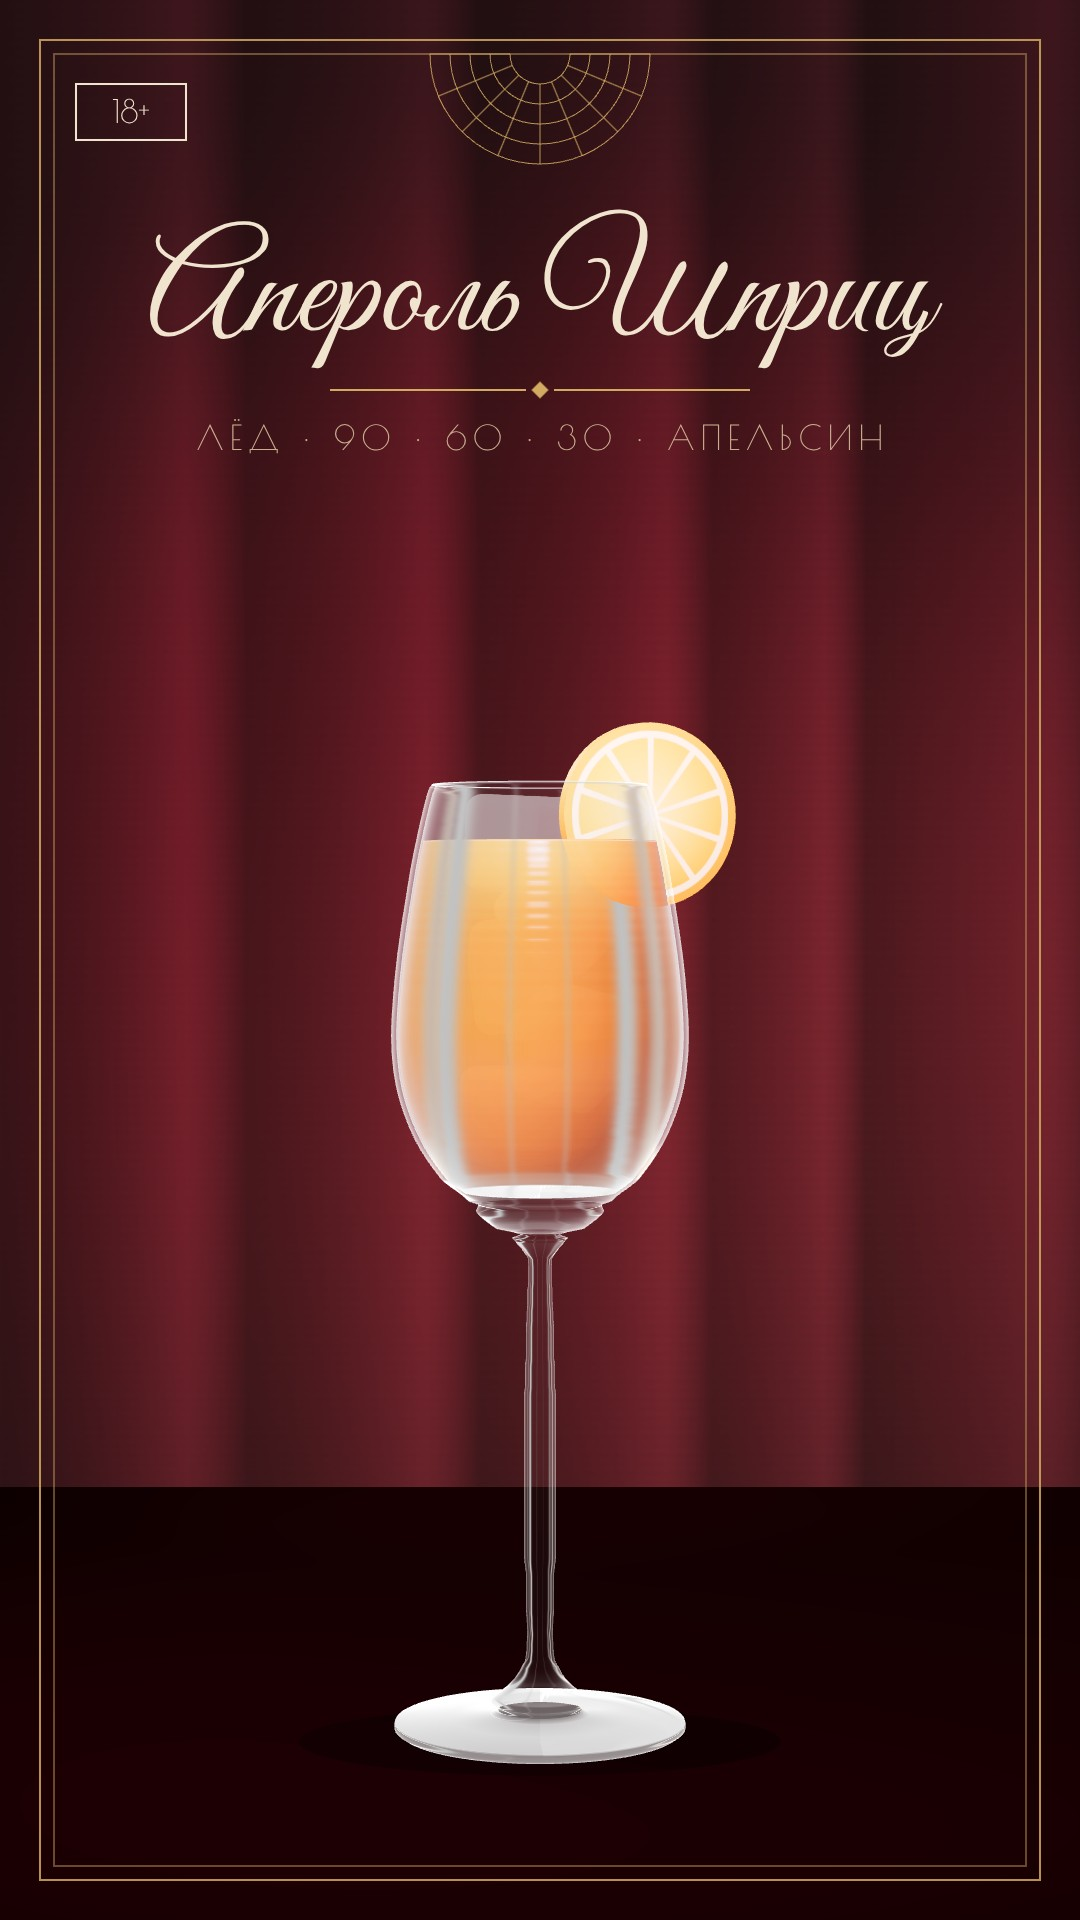
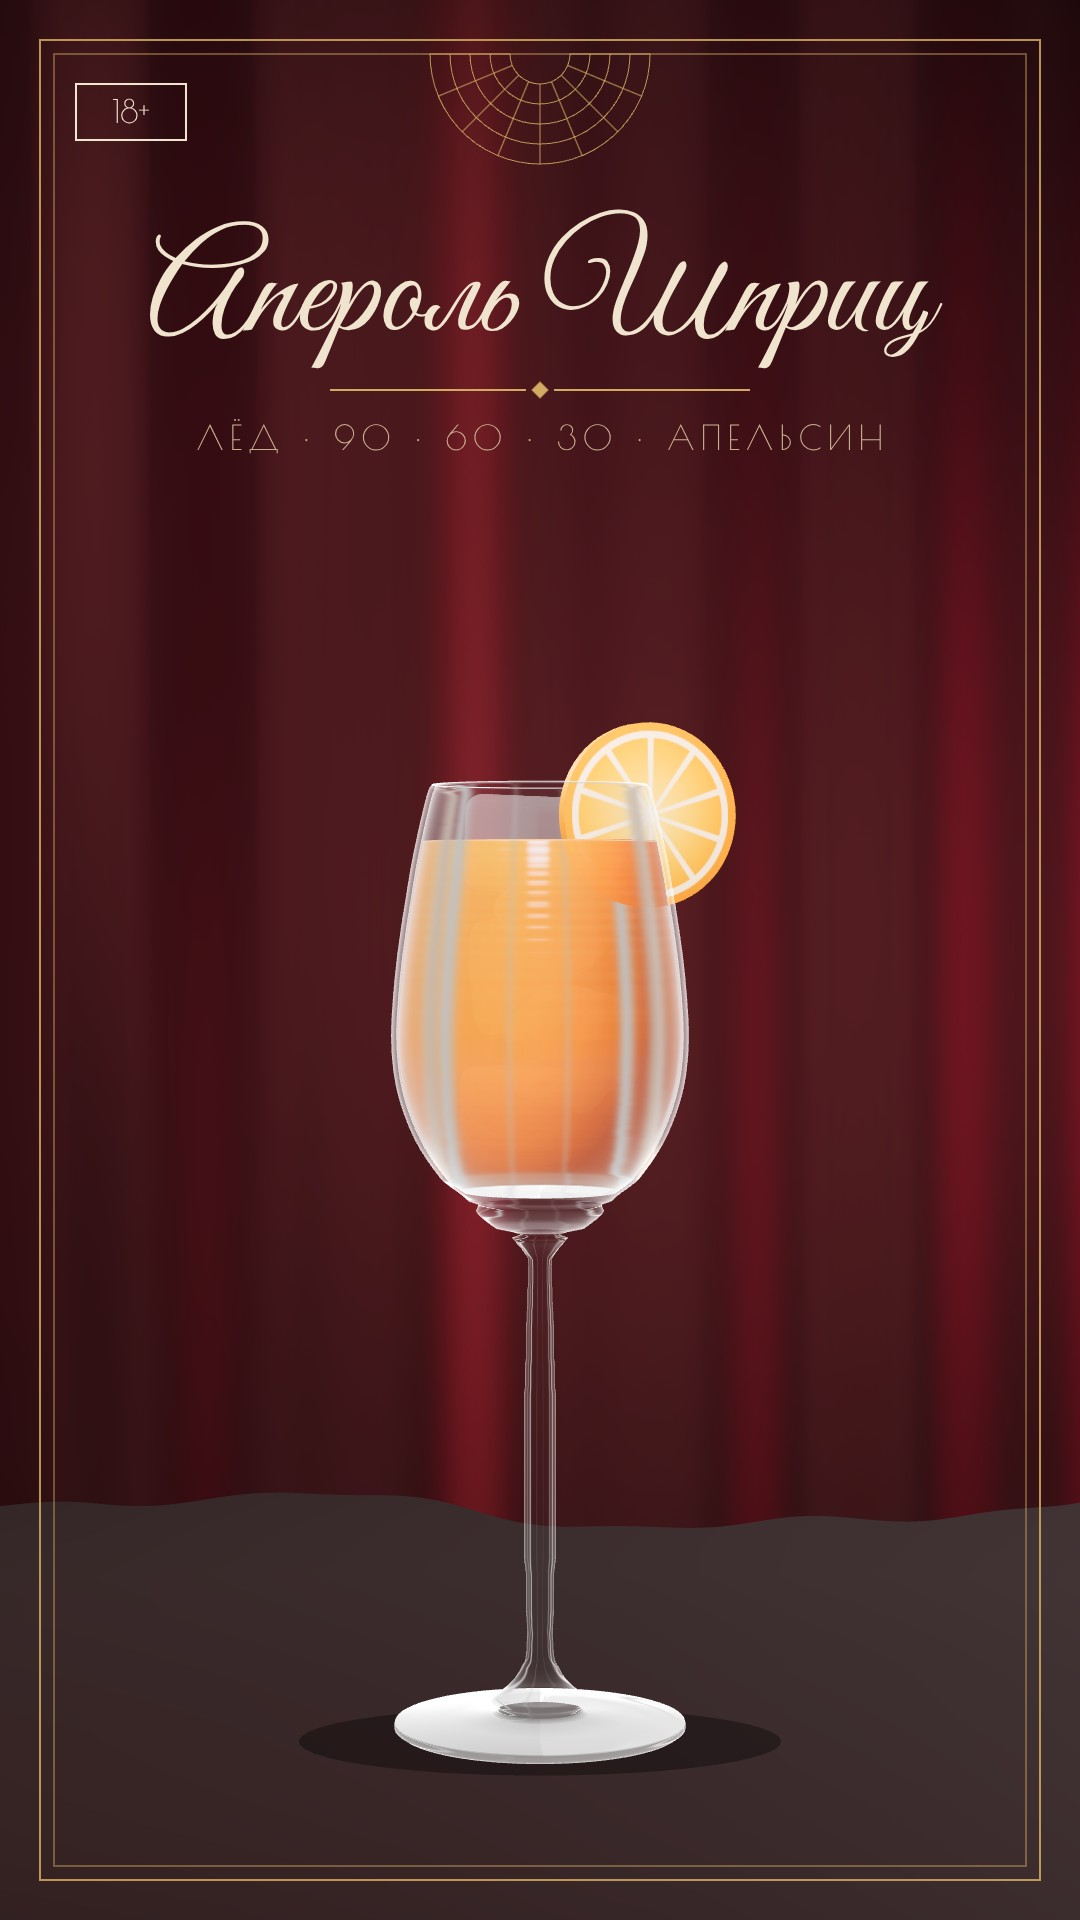
3D velvet curtain with sheen and pile texture
Claude-Session: https://claude.ai/code/session_01SGWJ4SLMudwh6zrv9sFXaG

diff --git a/cocktails/01-aperol-spritz/3d/scene3d.js b/cocktails/01-aperol-spritz/3d/scene3d.js
@@ -20,7 +20,7 @@ function glassProfile(){const p=[new THREE.Vector2(0,0)];
 const glassMat=new THREE.ShaderMaterial({transparent:true,depthWrite:false,side:THREE.DoubleSide,
   vertexShader:`varying vec3 vN;varying vec3 vV;void main(){vec4 mv=modelViewMatrix*vec4(position,1.);vN=normalize(normalMatrix*normal);vV=normalize(-mv.xyz);gl_Position=projectionMatrix*mv;}`,
   fragmentShader:`varying vec3 vN;varying vec3 vV;void main(){vec3 n=normalize(vN);if(!gl_FrontFacing)n=-n;float f=pow(1.-abs(dot(n,vV)),2.6);
-    float s1=exp(-pow((n.x+.62)/.07,2.))*.95, s2=exp(-pow((n.x-.78)/.05,2.))*.75, s3=exp(-pow((n.x+.2)/.03,2.))*.18;float top=smoothstep(.55,.95,n.y)*.5;
+    float s1=exp(-pow((n.x+.62)/.05,2.))*.8, s2=exp(-pow((n.x-.78)/.05,2.))*.75, s3=exp(-pow((n.x+.2)/.03,2.))*.18;float top=smoothstep(.55,.95,n.y)*.5;
     float a=clamp(.025+f*.8+s1+s2+s3+top,0.,1.);vec3 c=mix(vec3(1.),vec3(1.,.9,.82),s2)*(.75+f*.4);gl_FragColor=vec4(c,a*(gl_FrontFacing?1.:.55));}`});
 const glass=new THREE.Mesh(new THREE.LatheGeometry(glassProfile(),128),glassMat);glass.renderOrder=5;scene.add(glass);
 // ---------- напиток ----------
@@ -53,14 +53,25 @@ function bottle(kind){const grp=new THREE.Group();const P=kind==='pro'?[[0,0],[.
   const lab=new THREE.Mesh(new THREE.CylinderGeometry(kind==='pro'?.158:.138,kind==='pro'?.158:.138,.42,64,1,true,-1.1,2.2),new THREE.MeshStandardMaterial({map:labelTex(kind==='pro'?'ИГРИСТОЕ':'АПЕРИТИВ'),roughness:.7}));
   lab.position.y=.32;grp.add(lab);return grp;}
 // ---------- фон: бархат, стол ----------
-function velvetTex(){const c=document.createElement('canvas');c.width=1024;c.height=1024;const g=c.getContext('2d');g.fillStyle='#3a0b14';g.fillRect(0,0,1024,1024);
-  for(let i=0;i<22;i++){const x=i*48+((i*37)%17),w=40+((i*53)%30);const gr=g.createLinearGradient(x-w,0,x+w,0);gr.addColorStop(0,'rgba(0,0,0,0)');gr.addColorStop(.45,'rgba(255,170,180,.10)');gr.addColorStop(.55,'rgba(0,0,0,.18)');gr.addColorStop(1,'rgba(0,0,0,0)');g.fillStyle=gr;g.fillRect(x-w,0,2*w,1024);}
-  const t=new THREE.CanvasTexture(c);t.colorSpace=THREE.SRGBColorSpace;return t;}
-const back=new THREE.Mesh(new THREE.PlaneGeometry(14,14),new THREE.MeshStandardMaterial({map:velvetTex(),roughness:1,envMapIntensity:0}));back.position.set(0,3,-3.2);back.receiveShadow=true;scene.add(back);
-const floor=new THREE.Mesh(new THREE.PlaneGeometry(14,8),new THREE.MeshLambertMaterial({color:0x2a0710}));floor.rotation.x=-Math.PI/2;floor.receiveShadow=true;scene.add(floor);
+// бархат: 3D-складки + ворс (sheen) + микрорельеф ткани
+function pileNormal(){const N=512,c=document.createElement('canvas');c.width=c.height=N;const g=c.getContext('2d');const h=new Float32Array(N*N);
+  let s=7;const rnd=()=>{s=(s*16807)%2147483647;return s/2147483647;};
+  for(let i=0;i<N*N;i++)h[i]=rnd();
+  for(let pass=0;pass<2;pass++){const o=new Float32Array(N*N);for(let y=0;y<N;y++)for(let x=0;x<N;x++){let v=0;for(let d=-1;d<=1;d++)v+=h[y*N+((x+d+N)%N)]+h[((y+d+N)%N)*N+x];o[y*N+x]=v/6;}h.set(o);}
+  // лёгкое направление ворса по вертикали
+  const img=g.createImageData(N,N);for(let y=0;y<N;y++)for(let x=0;x<N;x++){const i=y*N+x;const dx=h[y*N+(x+1)%N]-h[y*N+(x-1+N)%N],dy=h[((y+1)%N)*N+x]-h[((y-1+N)%N)*N+x];
+    let nx=-dx*2.2,ny=-dy*.8,nz=1;const l=Math.hypot(nx,ny,nz);img.data[i*4]=(nx/l*.5+.5)*255;img.data[i*4+1]=(ny/l*.5+.5)*255;img.data[i*4+2]=(nz/l*.5+.5)*255;img.data[i*4+3]=255;}
+  g.putImageData(img,0,0);const t=new THREE.CanvasTexture(c);t.wrapS=t.wrapT=THREE.RepeatWrapping;t.repeat.set(46,34);return t;}
+const curtainGeo=new THREE.PlaneGeometry(14,10,420,60);{const p=curtainGeo.attributes.position;for(let i=0;i<p.count;i++){const x=p.getX(i),y=p.getY(i);const k=1+.35*(1-(y+5)/10);
+  const z=k*(.20*Math.sin(x*2.3+.4)+.08*Math.sin(x*5.3+1.3+y*.05)+.035*Math.sin(x*11.7+2.1))+.02*Math.sin(y*1.3+x*.7);p.setZ(i,z);}curtainGeo.computeVertexNormals();}
+const velvet=new THREE.MeshPhysicalMaterial({color:0x34060f,roughness:.95,metalness:0,sheen:1,sheenColor:new THREE.Color(0xd0405a),sheenRoughness:.3,normalMap:pileNormal(),normalScale:new THREE.Vector2(.16,.16),envMapIntensity:.12});
+const back=new THREE.Mesh(curtainGeo,velvet);back.position.set(0,4.35,-2.8);back.receiveShadow=true;scene.add(back);
+const floor=new THREE.Mesh(new THREE.PlaneGeometry(14,8),new THREE.MeshPhysicalMaterial({color:0x1c050a,roughness:.45,envMapIntensity:0,specularIntensity:.4}));floor.rotation.x=-Math.PI/2;floor.receiveShadow=true;scene.add(floor);
 // ---------- свет ----------
 const key=new THREE.SpotLight(0xffe6cc,90,20,.45,.7,1.6);key.position.set(-3,5,4);key.target.position.set(0,1.2,0);key.castShadow=true;key.shadow.mapSize.set(2048,2048);scene.add(key,key.target);
-const bgL=new THREE.SpotLight(0xff8c9a,38,20,.55,1,1.5);bgL.position.set(0,2.4,1.2);bgL.target.position.set(0,1.8,-3.2);scene.add(bgL,bgL.target);
+const bgL=new THREE.SpotLight(0xffb3bd,16,20,.6,1,1.5);bgL.position.set(0,2.6,1.4);bgL.target.position.set(0,2.2,-2.8);scene.add(bgL,bgL.target);
+const graze=new THREE.SpotLight(0xffd2c2,46,16,.45,.8,1.4);graze.position.set(-5.5,4.2,-1.2);graze.target.position.set(1.5,2.4,-2.8);scene.add(graze,graze.target);
+const graze2=new THREE.SpotLight(0xff9cab,25,16,.5,.9,1.4);graze2.position.set(5.5,1.5,-1.4);graze2.target.position.set(-1.5,2.6,-2.8);scene.add(graze2,graze2.target);
 const rimA=new THREE.DirectionalLight(0xffffff,2.2);rimA.position.set(3,3,-4);scene.add(rimA);
 const rimB=new THREE.DirectionalLight(0xffd7a8,1.4);rimB.position.set(-3,2,-4);scene.add(rimB);
 // тень-пятно под бокалом
